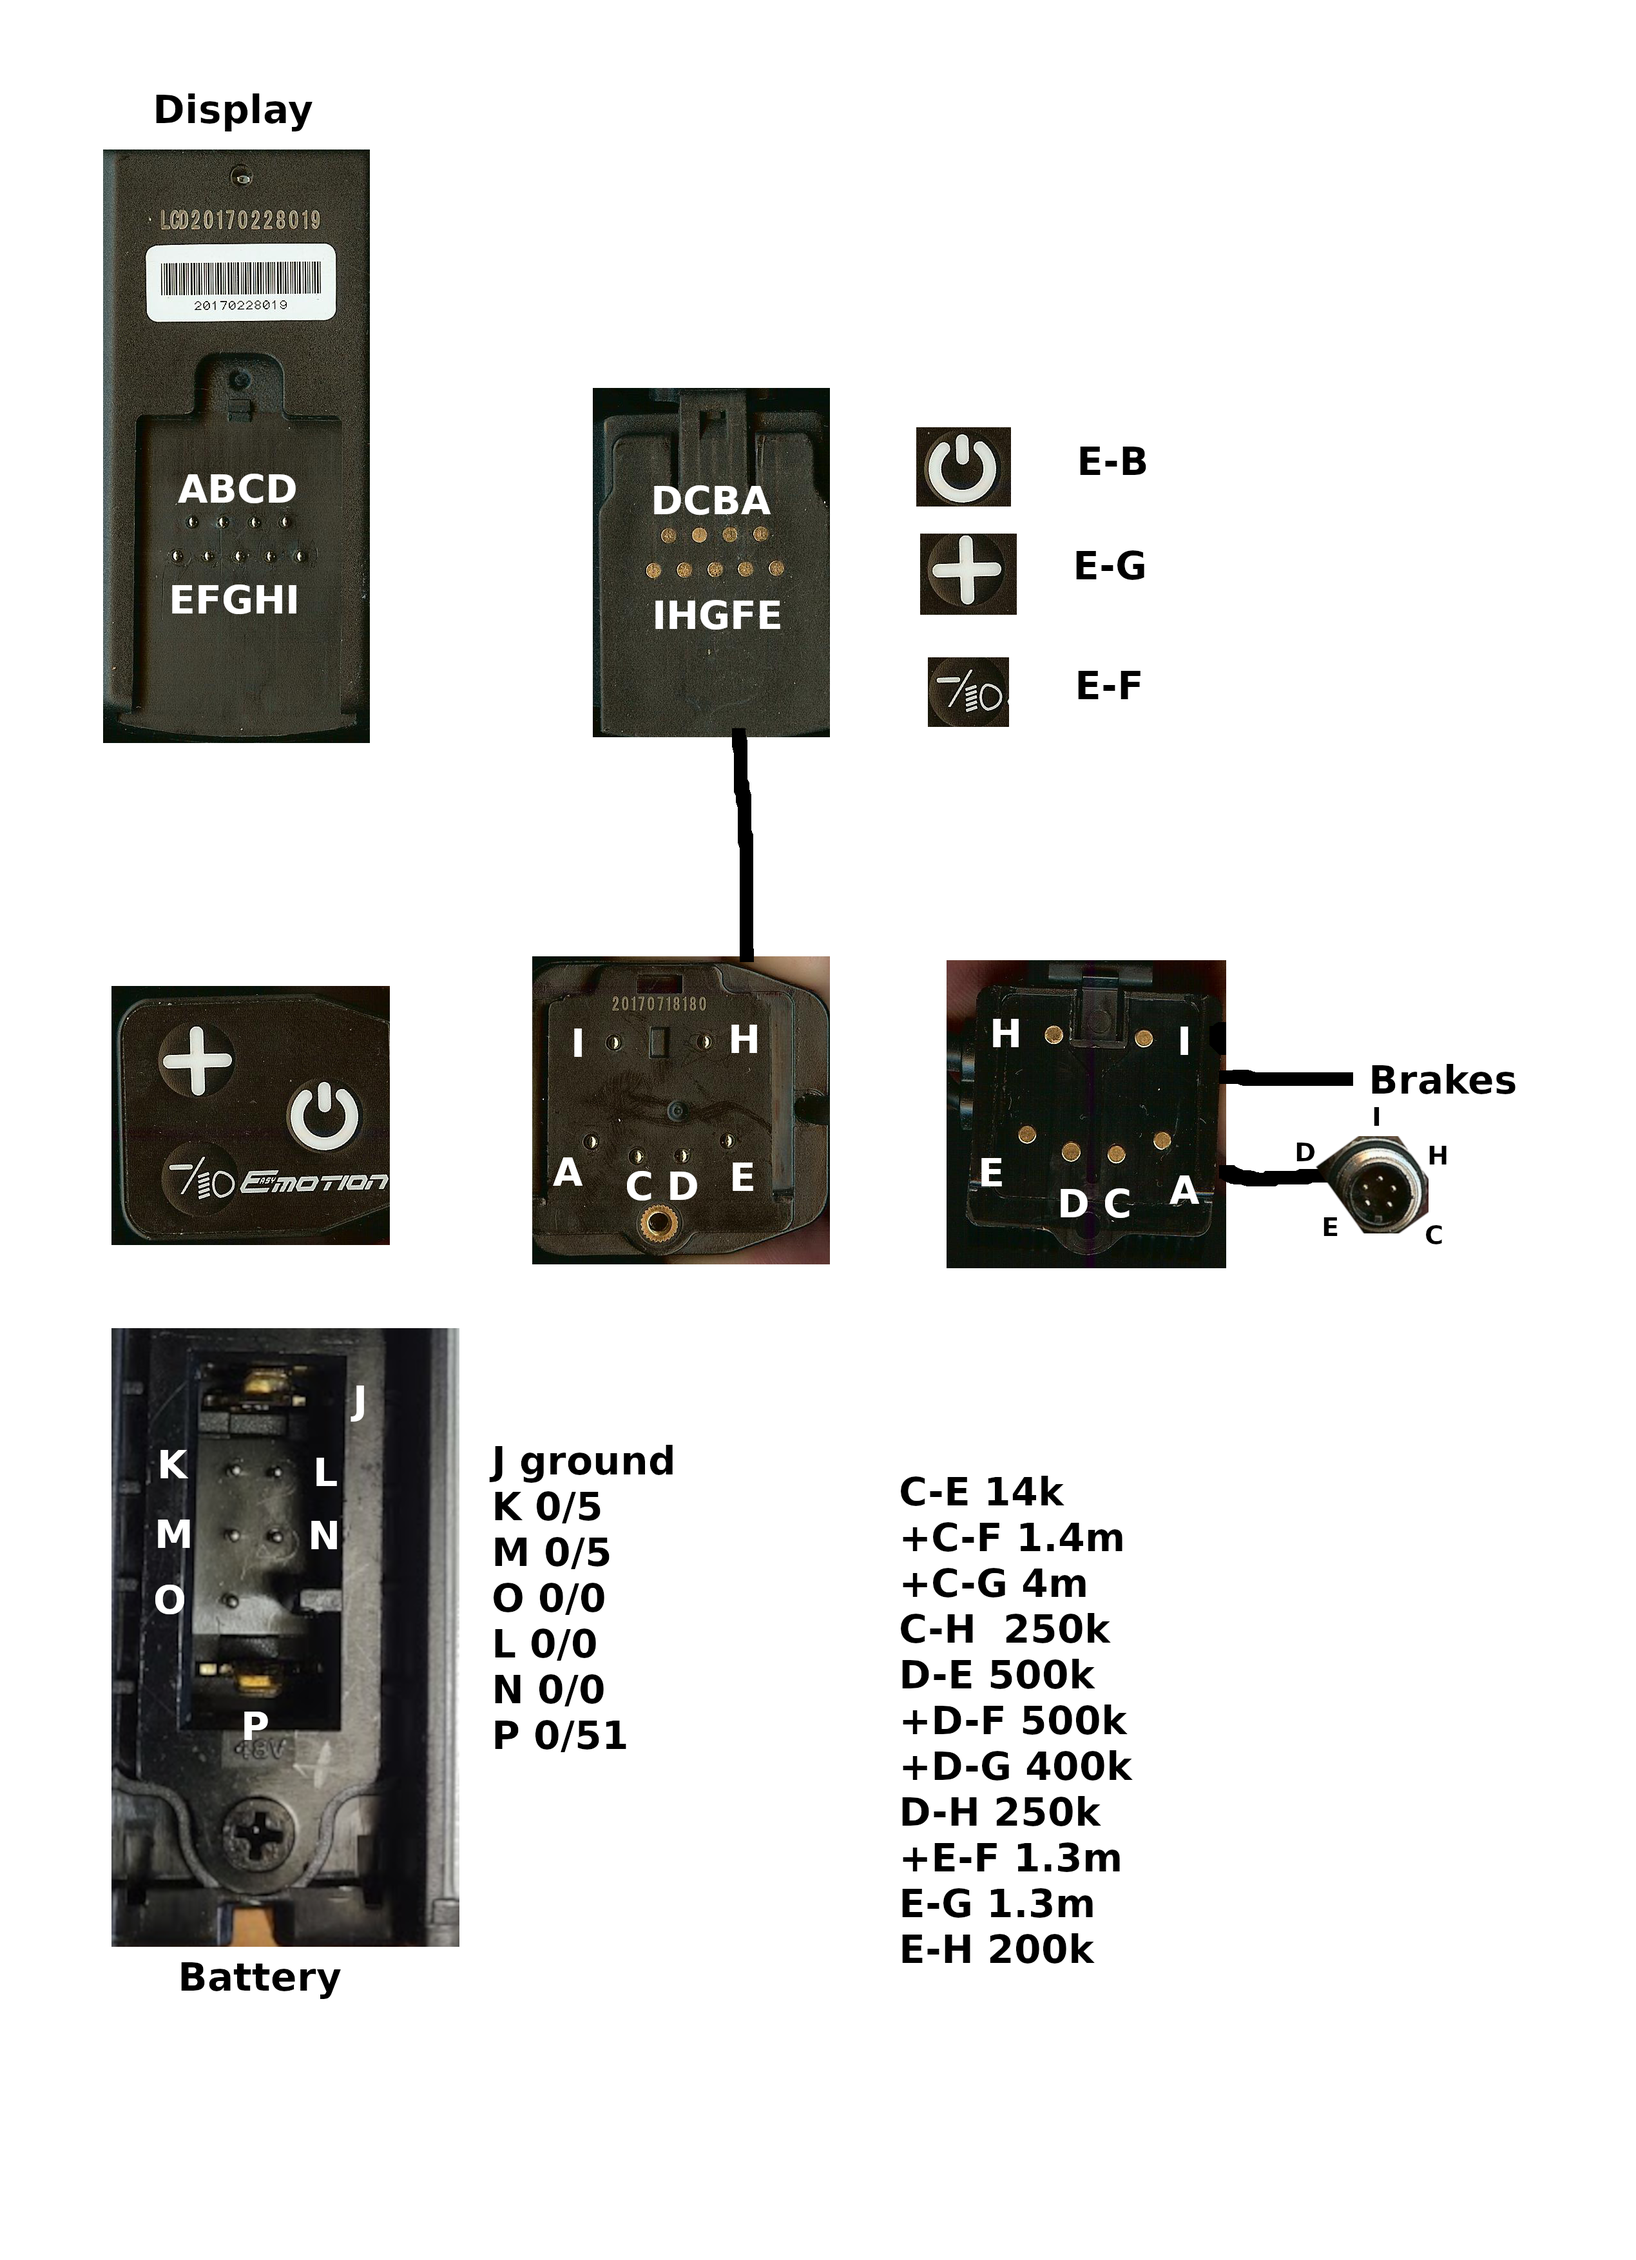
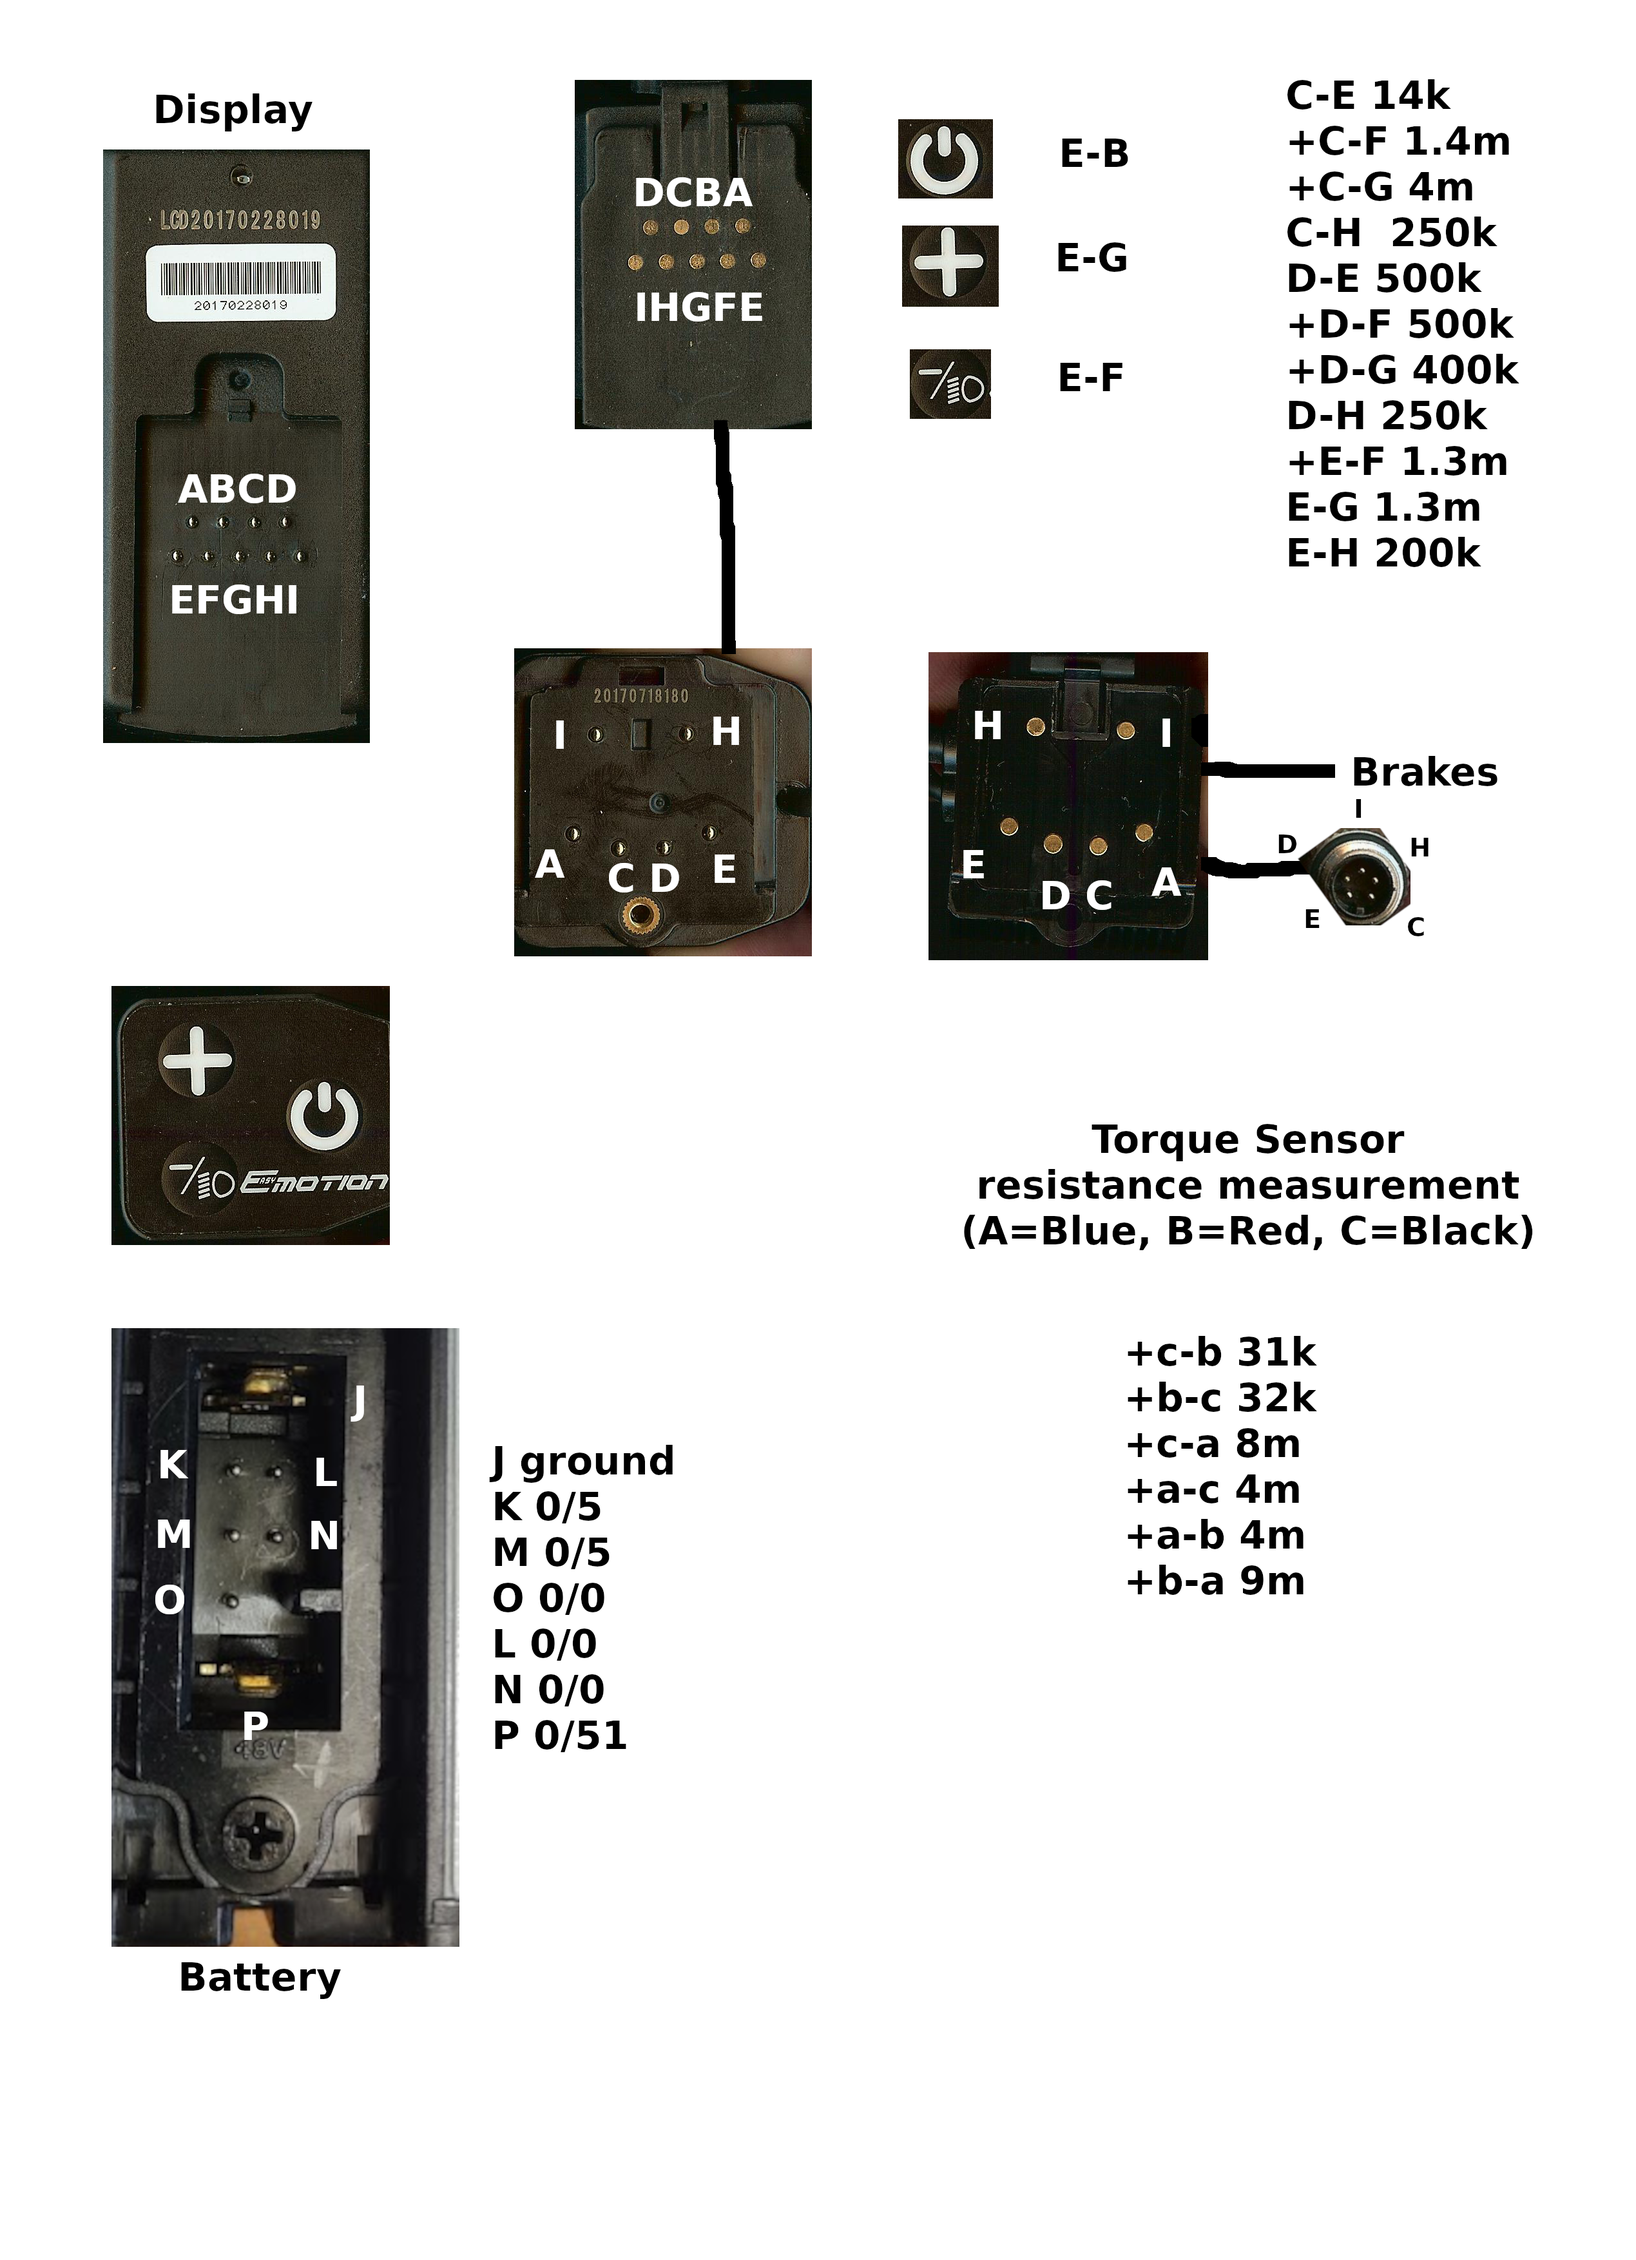
update README

diff --git a/README.md b/README.md
@@ -10,7 +10,7 @@ When I got this bike I had to hold the "battery test" button on the battery for 
 
 This bike was displaying an "Err 03" on the display which was a torque sensor error.  The rear derailleur is mounted to the torque sensor.  Before I removed the torque sensor to examine it I thought I'd pop off the controller cover to see if I could find where the torque sensor cable comes in.
 
-Below shows the internal connection of the display and on/off button.  Also the battery connector and voltages while the battery was in deep sleep. (the first number is normal mode, the second is the brief period when the LED's are lit when pushing the "battery test" button on the battery. The chart on the lower right shows resistance measurements.
+Below shows the internal connection of the display and on/off button.  Also the battery connector and voltages while the battery was in deep sleep. (the first number is normal mode, the second is the brief period when the LED's are lit when pushing the "battery test" button on the battery. The chart on the upper right shows resistance measurements.  Torque sensor resistance measurements are on the lower right.
 
 ![alt text](https://github.com/rickbronson/Fix-faulty-cable-conneciton-on-an-2018-BH-EVO-Street-E-bike/blob/master/images/hookup3.png "hookup")
 
